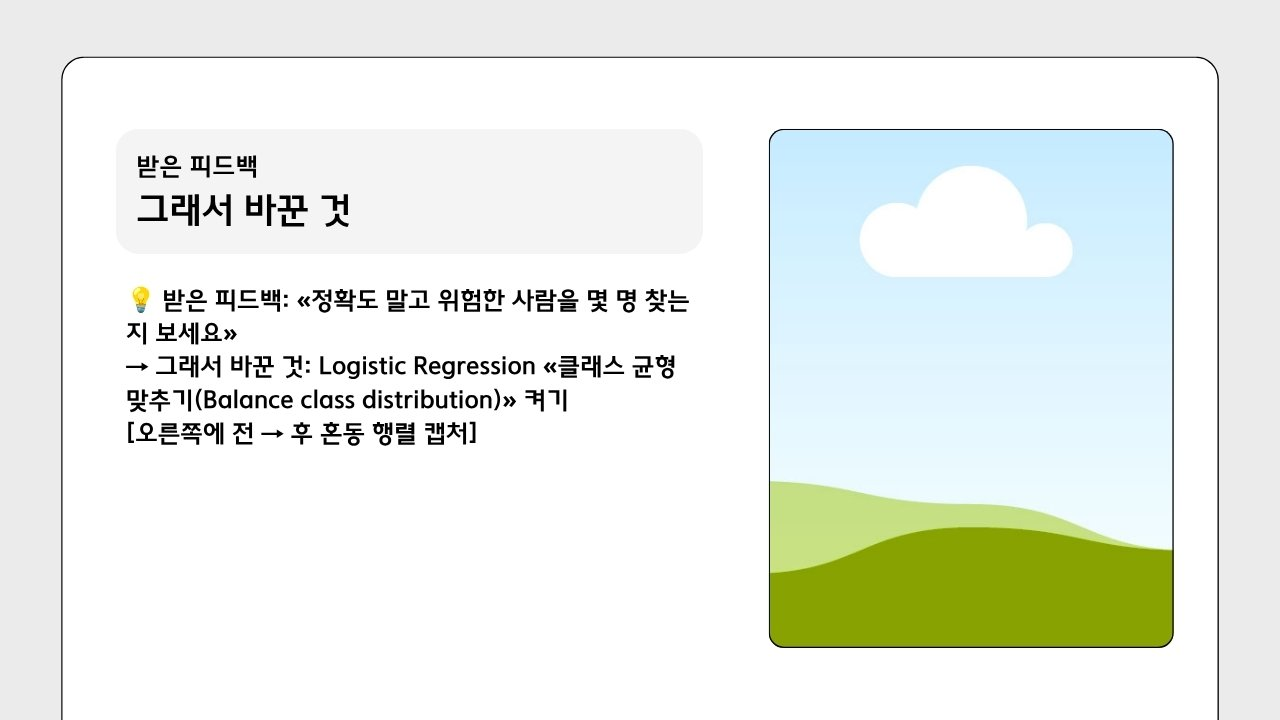
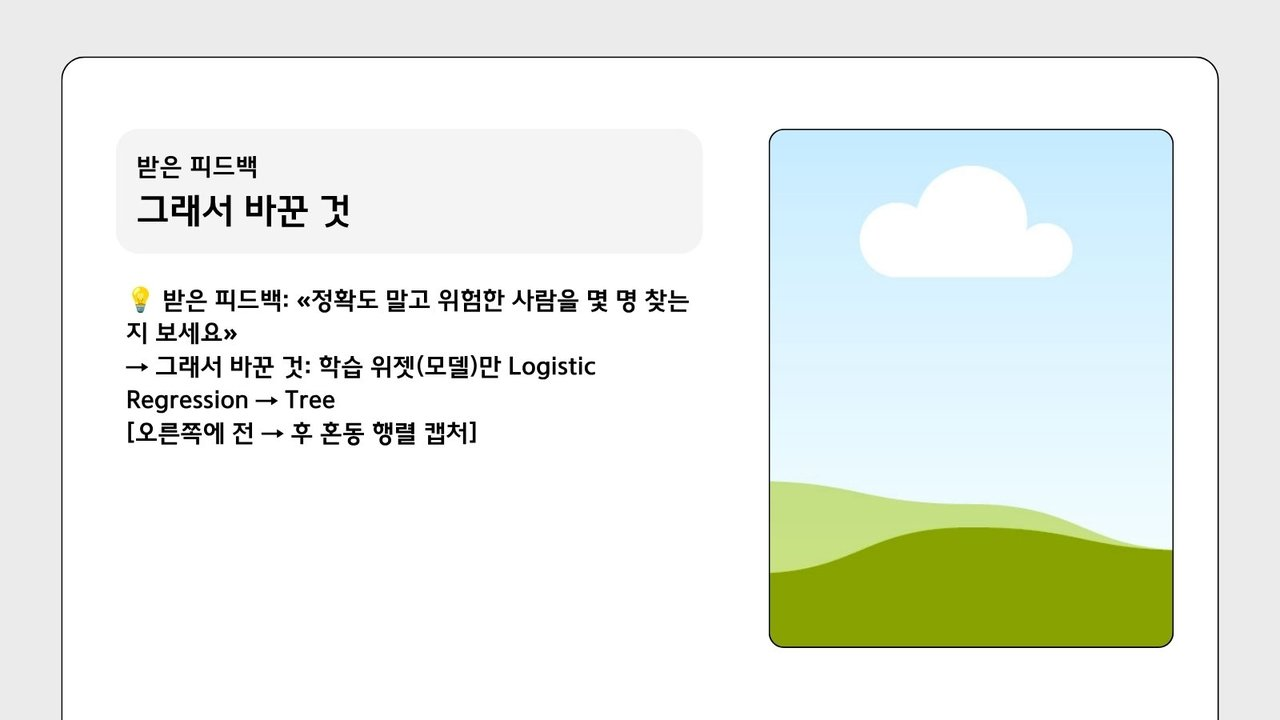
수행평가② 예시 개선 실험: 클래스 균형 → 모델 바꾸기(Logistic Regression → Tree, 재현율 0.012 → 0.285) — 개선본 노트북 · 캔바 6 · 9 · 10쪽 그림 · 길잡이 · 빔 화면

diff --git a/pa2guide.html b/pa2guide.html
@@ -338,15 +338,15 @@ code{font-family:"D2Coding",Consolas,monospace;font-size:14.5px;background:var(-
    <ul><li>정확도 <b>0.817</b> — 높아 보여요</li><li>그런데 혼동 행렬: 실제 위험 670명 중 <b>8명</b>만 찾음(재현율 0.012)</li><li>→ «정확도만 보면 속는다»가 7절 «평가»에 들어가요</li></ul></div>
   <div class="card"><h3>🧪 ② 개선본 노트북</h3><p>① + <b>5절 내 개선 실험</b> + 6 · 7절을 개선 결과로 고친 모습</p>
    <p><a class="btn" href="https://colab.research.google.com/github/richee-pc/AI_cs/blob/main/notebooks/05_project_example_bp_2_improved.ipynb" target="_blank" rel="noopener">▶ 코랩에서 열기 — 개선본</a></p>
-   <ul><li>바꾼 것 <b>하나</b>: Logistic Regression «클래스 균형 맞추기» 켜기</li><li>«위험» 재현율 <b>0.012 → 0.624</b> (8명 → 418명)</li><li>정확도는 0.817 → 0.633으로 떨어짐 → 그래도 쓰는 «이유»를 씀</li></ul></div>
+   <ul><li>바꾼 것 <b>하나</b>: 모델(학습 위젯)만 Logistic Regression → Tree</li><li>«위험» 재현율 <b>0.012 → 0.285</b> (8명 → 191명)</li><li>정확도는 0.817 → 0.703으로 떨어짐 → 그래도 쓰는 «이유»를 씀</li></ul></div>
  </div>
  <h3 style="margin-top:18px">🎨 캔바 예시본 12쪽 <small>(그림을 누르면 크게 보여요 · ★ = 내 페이지)</small></h3>
  <div class="exgal"><figure class="exfig"><a href="img/pa2ex/p01.jpg" target="_blank" rel="noopener"><img src="img/pa2ex/p01.jpg" alt="예시본 1쪽 표지" loading="lazy"></a><figcaption>1쪽 표지</figcaption></figure><figure class="exfig"><a href="img/pa2ex/p02.jpg" target="_blank" rel="noopener"><img src="img/pa2ex/p02.jpg" alt="예시본 2쪽 모둠 소개" loading="lazy"></a><figcaption>2쪽 모둠 소개</figcaption></figure><figure class="exfig"><a href="img/pa2ex/p03.jpg" target="_blank" rel="noopener"><img src="img/pa2ex/p03.jpg" alt="예시본 3쪽 실생활 문제" loading="lazy"></a><figcaption>3쪽 실생활 문제</figcaption></figure><figure class="exfig"><a href="img/pa2ex/p04.jpg" target="_blank" rel="noopener"><img src="img/pa2ex/p04.jpg" alt="예시본 4쪽 데이터" loading="lazy"></a><figcaption>4쪽 데이터</figcaption></figure><figure class="exfig"><a href="img/pa2ex/p05.jpg" target="_blank" rel="noopener"><img src="img/pa2ex/p05.jpg" alt="예시본 5쪽 오렌지3" loading="lazy"></a><figcaption>5쪽 오렌지3</figcaption></figure><figure class="exfig"><a href="img/pa2ex/p06.jpg" target="_blank" rel="noopener"><img src="img/pa2ex/p06.jpg" alt="예시본 6쪽 그래서 바꾼 것" loading="lazy"></a><figcaption>6쪽 그래서 바꾼 것</figcaption></figure><figure class="exfig"><a href="img/pa2ex/p07.jpg" target="_blank" rel="noopener"><img src="img/pa2ex/p07.jpg" alt="예시본 7쪽 코랩 재구현" loading="lazy"></a><figcaption>7쪽 코랩 재구현</figcaption></figure><figure class="exfig"><a href="img/pa2ex/p08.jpg" target="_blank" rel="noopener"><img src="img/pa2ex/p08.jpg" alt="예시본 8쪽 성능 비교" loading="lazy"></a><figcaption>8쪽 성능 비교</figcaption></figure><figure class="exfig"><a href="img/pa2ex/p09.jpg" target="_blank" rel="noopener"><img src="img/pa2ex/p09.jpg" alt="예시본 9쪽 해결안" loading="lazy"></a><figcaption>9쪽 해결안</figcaption></figure><figure class="exfig star"><a href="img/pa2ex/p10.jpg" target="_blank" rel="noopener"><img src="img/pa2ex/p10.jpg" alt="예시본 ★ 내 페이지" loading="lazy"></a><figcaption>★ 내 페이지</figcaption></figure><figure class="exfig"><a href="img/pa2ex/p11.jpg" target="_blank" rel="noopener"><img src="img/pa2ex/p11.jpg" alt="예시본 출처와 AI 기록" loading="lazy"></a><figcaption>출처와 AI 기록</figcaption></figure><figure class="exfig"><a href="img/pa2ex/p12.jpg" target="_blank" rel="noopener"><img src="img/pa2ex/p12.jpg" alt="예시본 마지막 쪽" loading="lazy"></a><figcaption>마지막 쪽</figcaption></figure></div>
  <div class="tw" style="margin-top:12px"><table>
   <tr><th style="width:26%">캔바 쪽</th><th style="width:30%">노트북 어디서 가져왔나</th><th>예시에 쓴 것</th></tr>
   <tr><td>★ 내 페이지 ①</td><td>3절 ④ · 4절 · 9절</td><td>재현율 오렌지3 0.012 → 코랩 0.012 · 670명 중 8명</td></tr>
-  <tr><td>★ 내 페이지 ②</td><td>5절 · 개선 실험 칸</td><td>가설 → 바꾼 것 하나 → 0.012 → 0.624 → 편향(선택)</td></tr>
-  <tr><td>★ 내 페이지 ③</td><td>6절</td><td>«위험» → 간호사 → 재검 문자 · 418명 안내 · 252명 놓침</td></tr>
+  <tr><td>★ 내 페이지 ②</td><td>5절 · 개선 실험 칸</td><td>가설 → 바꾼 것 하나(모델 → Tree) → 0.012 → 0.285 → 편향(선택)</td></tr>
+  <tr><td>★ 내 페이지 ③</td><td>6절</td><td>«위험» → 간호사 → 재검 문자 · 191명 안내 · 479명 놓침</td></tr>
   <tr><td>★ 내 페이지 ④</td><td>7절</td><td>정확도가 떨어져도 쓰는 이유 · 받을 질문과 내 답</td></tr>
   <tr><td>7 · 8 · 9쪽 (모둠)</td><td>3절 · 4절 + 7절 · 6절</td><td>위젯 ↔ 코드 · 담당 / 같은 지표 표 · 가장 위험한 틀림 / 행동 규칙</td></tr>
  </table></div>

diff --git a/beam_s3.html b/beam_s3.html
@@ -119,13 +119,13 @@ footer a.bk{flex:0 1 auto;text-decoration:none;color:var(--ink);background:var(-
    <div class="top"><span class="no">3</span><h2>하나만 바꿔 보기</h2><span class="t">8–25분 · 17분 ⭐</span></div>
    <div class="vis">
     <div class="colab"><div class="md"><h4>🧪 5. 내 개선 실험</h4>
-     가설: 클래스 균형을 켜면 ‹위험›을 더 찾을 것이다<br>
-     바꾼 것 <b>하나</b>: <code>class_weight='balanced'</code><br>
-     결과: 재현율 <span class="hl">0.012 → 0.624</span> (8명 → 418명)<br>
+     가설: 모델을 Tree로 바꾸면 ‹위험›을 더 찾을 것이다<br>
+     바꾼 것 <b>하나</b>: 모델 <code>Logistic Regression</code> → <code>Tree</code><br>
+     결과: 재현율 <span class="hl">0.012 → 0.285</span> (8명 → 191명)<br>
      해석 · 편향: 정상이 82 %라 치우침(선택 편향)</div></div>
     <div class="colab"><div class="bar"><span>«개선 실험» 칸 출력</span></div>
-<pre>«위험» 재현율: 전 0.012 → 후 0.624
-정확도      : 전 0.817 → 후 0.633</pre></div>
+<pre>«위험» 재현율: 전 0.012 → 후 0.285
+정확도      : 전 0.817 → 후 0.703</pre></div>
    </div>
    <ul class="key"><li>🔑 <b>💡 선생님 피드백</b>대로 <b>딱 하나만</b> · <b>같은 지표</b>로 다시 재기</li><li><b>나빠지거나 그대로여도 좋은 결과</b> — 숫자를 좋게 바꿔 적지 않기</li></ul>
   </section>
